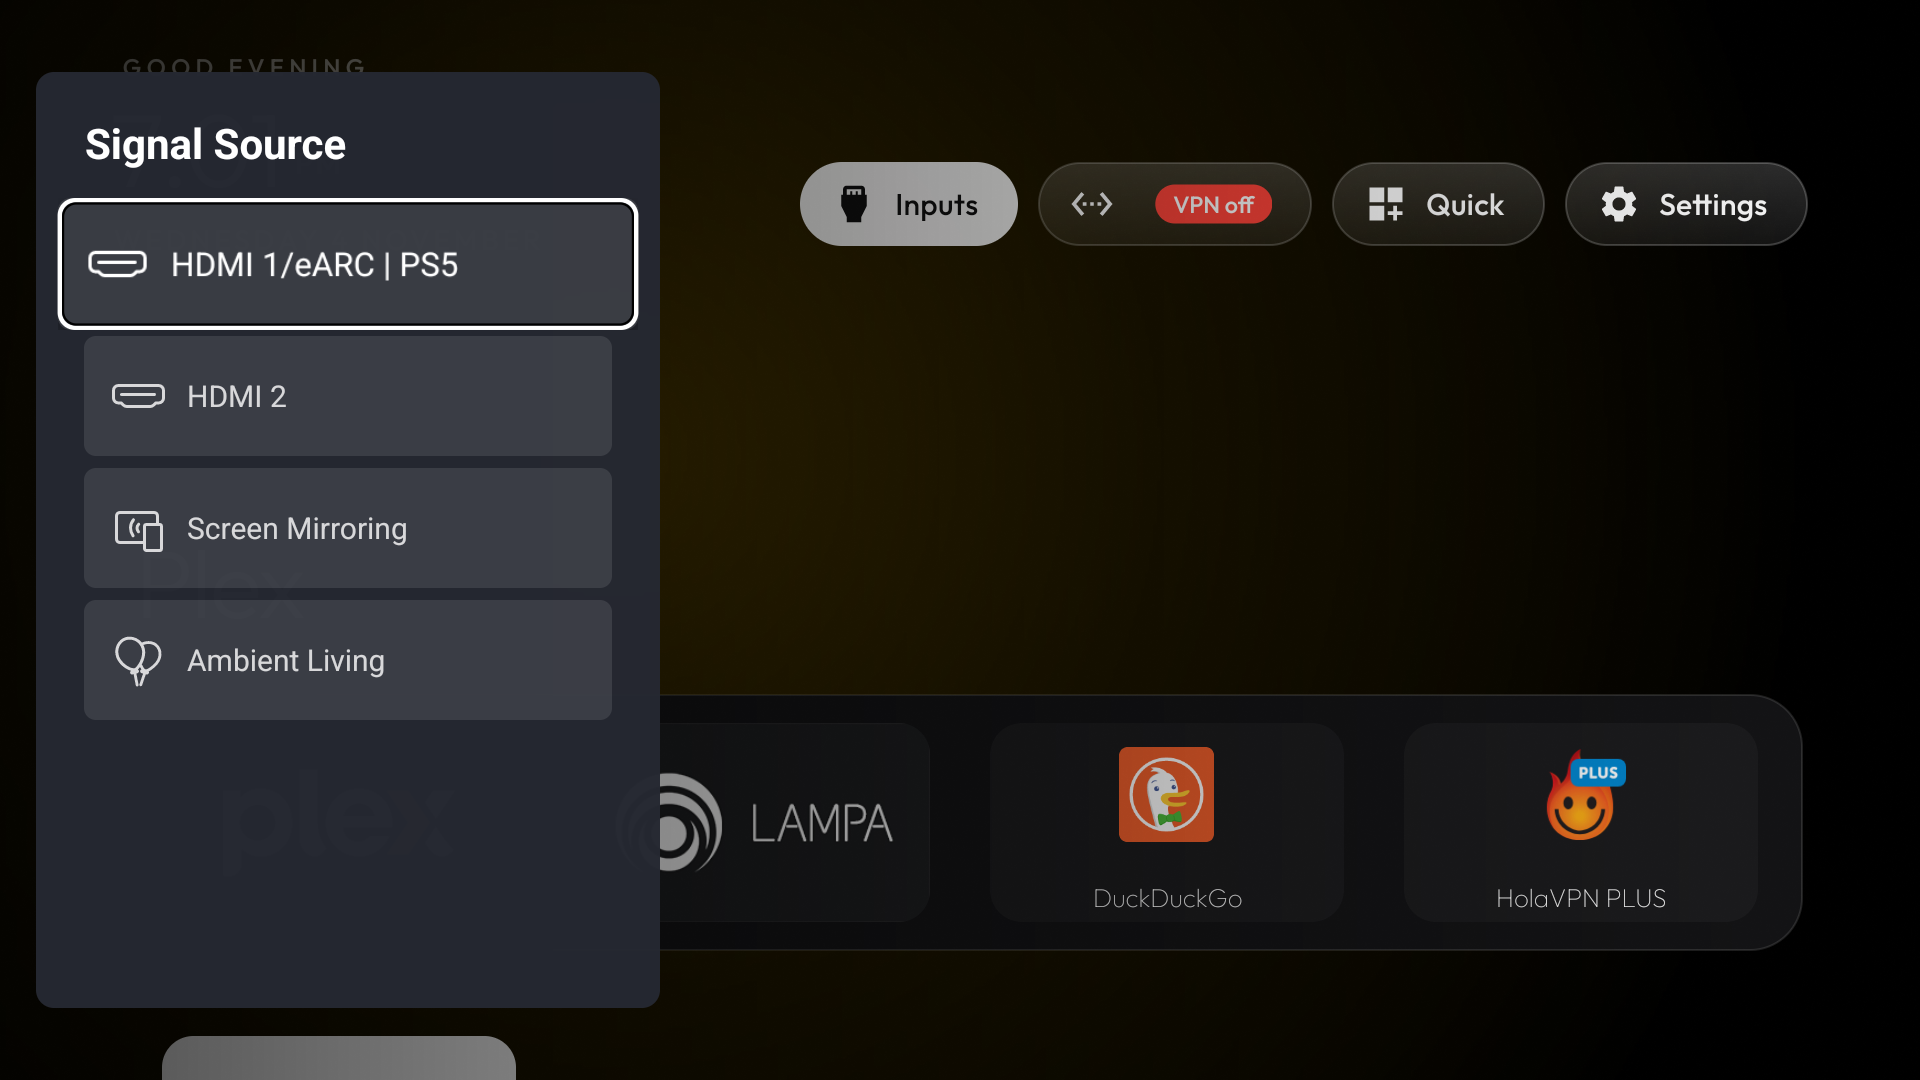
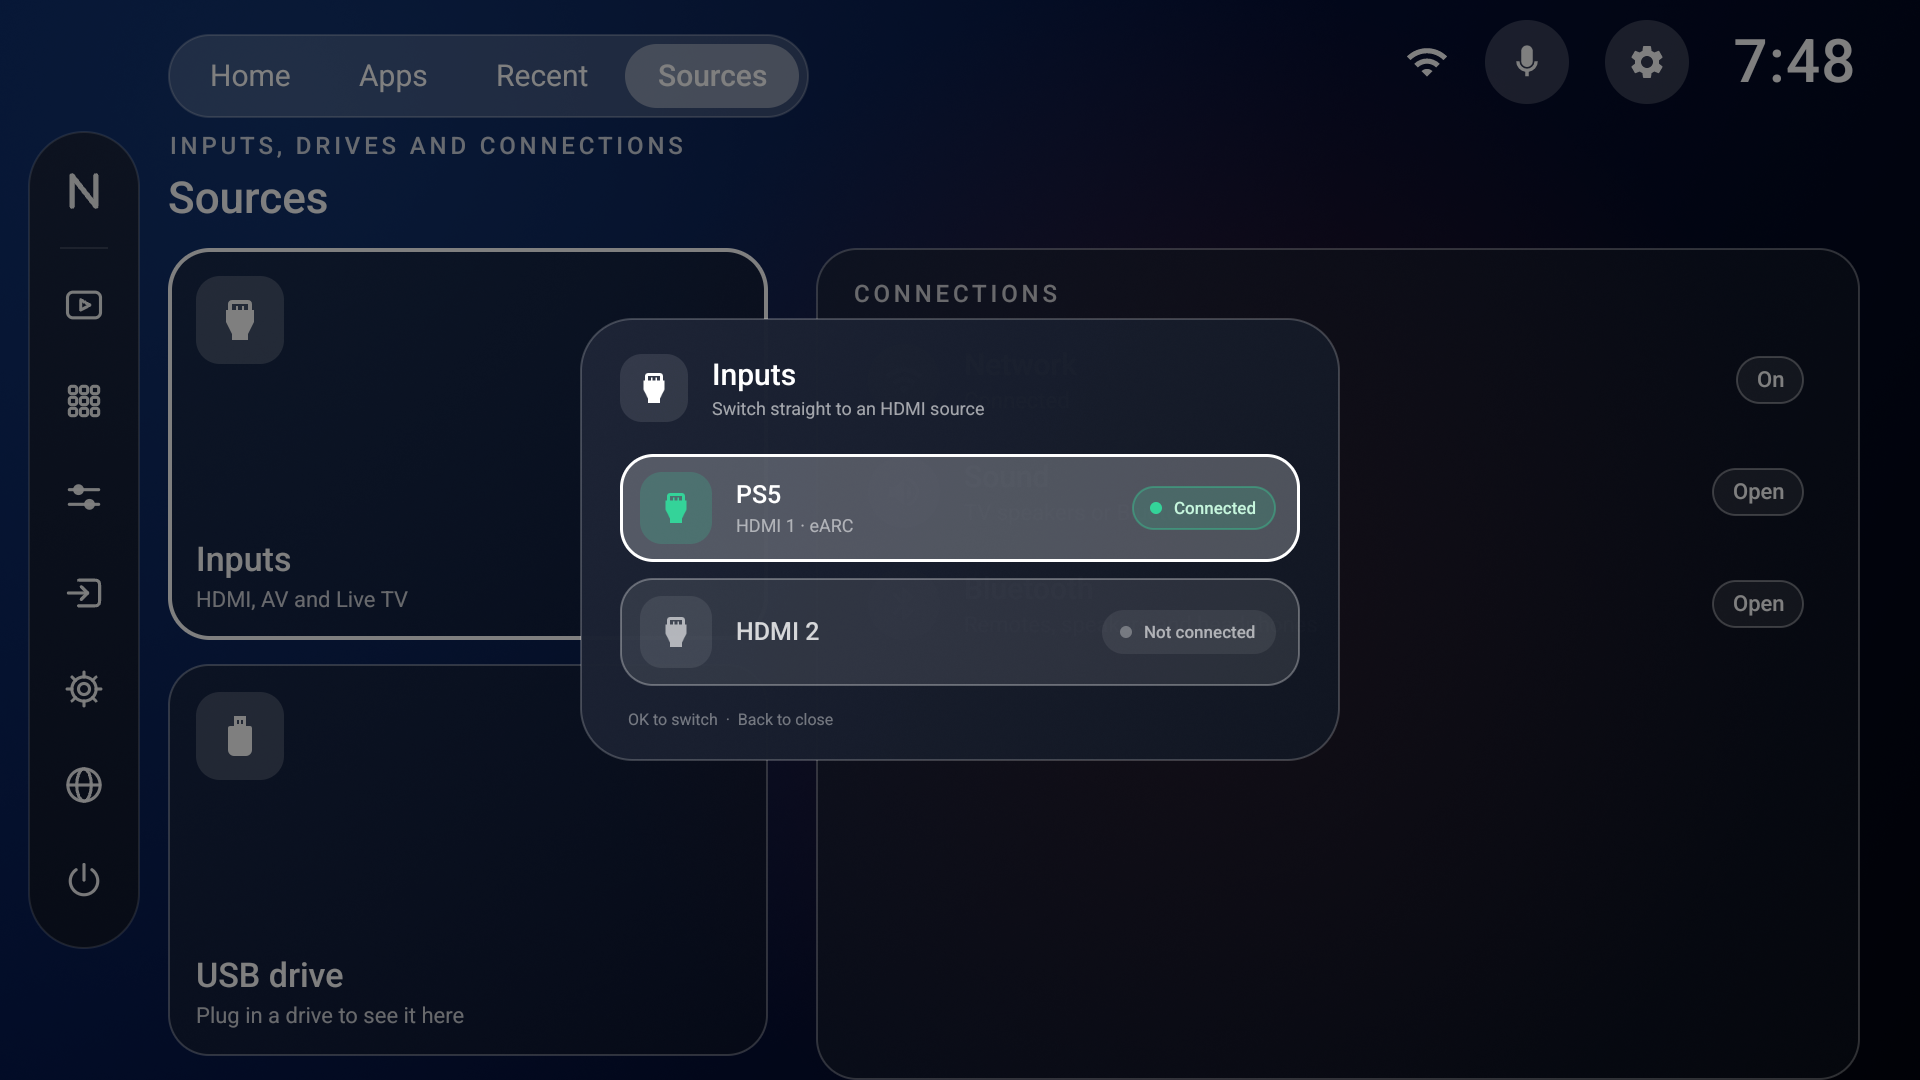
Northlight OS version 2: README and Studio screenshots
Describe version 2 (Studio home, direct HDMI switching with live status,
Short Menu, English Settings, power menu, add-on apps, 31 languages) and
replace the version 1 screenshots with fresh Studio ones. The source in
this repository stays version 1 (tagged v1); version 2 ships as APKs on
the Releases page.

diff --git a/README.md b/README.md
@@ -1,44 +1,75 @@
 # Northlight OS
 
-**A clean, modern English home screen and debloat kit for China-market Vidda / Hisense TVs and laser projectors, rebuilt on top of CleanYourTV.**
+**A clean, modern English home screen for China-market Vidda / Hisense TVs and laser projectors, rebuilt on top of CleanYourTV. Version 2.**
 
 > Northlight OS is a community project and is **not made by, affiliated with or endorsed by
 > Hisense or Vidda**. "Vidda" and "Hisense" are trademarks of their owners and are used here only to
 > say which TVs this is for.
 
-China-market Vidda laser TVs run Android 14 under a Chinese interface, with ads, telemetry and a
-Chinese home screen that English settings do not change. Northlight OS replaces the home screen and turns
-off the bloat, using nothing but Android's own tools: no root, nothing flashed, and **everything is
-undone by one script or a factory reset**.
+China-market Vidda laser TVs run Android 14 under a Chinese interface, with ads and a Chinese home screen
+that English settings do not change. Northlight OS replaces the home screen with its own, in English, using
+nothing but Android's own tools: no root, nothing flashed, and everything can be undone.
 
 ![Northlight OS home screen](screenshots/01-home.png)
 
-| Quick panel | Network and VPN |
+| Apps | Sources |
 |---|---|
-| ![Quick panel](screenshots/04-quick-panel.png) | ![Network menu](screenshots/03-network-menu.png) |
-| **Inputs** | **App grid** |
-| ![Inputs](screenshots/05-inputs.png) | ![Apps](screenshots/02-apps.png) |
-![App library](screenshots/06-app-library.png)
+| ![Apps](screenshots/02-apps.png) | ![Sources](screenshots/03-sources.png) |
+| **Short Menu** | **HDMI inputs** |
+| ![Short Menu](screenshots/04-short-menu.png) | ![HDMI inputs](screenshots/05-inputs.png) |
+| **Quick settings** | **Settings** |
+| ![Quick settings](screenshots/06-quick-settings.png) | ![Settings](screenshots/07-settings.png) |
 
-![System apps folder](screenshots/08-system-apps.png)
+![Power menu](screenshots/08-power.png)
 
-## What you get
+## What's new in version 2
 
-- **A dark, Apple TV-style home screen in English**: a dock of your favourite apps, a clock, and one
-  glass highlight that moves between tiles.
-- **Inputs** opens the TV's own Signal Source panel (HDMI, screen mirroring).
-- **A network pill with a dropdown** for Ethernet/Wi-Fi settings, your VPN (with an On/Off badge) and
-  AirScreen when it is installed.
-- **Quick**: an English version of the Chinese quick panel, with Bluetooth, network, screen mirroring,
-  auto keystone and focus, manual keystone, manual focus, picture mode and sound mode.
-- **App library**: every installed app, phone apps included.
-- **System apps**: tools and Chinese system apps kept off Home behind a **PIN (default 0000)**. It keeps
-  family out; it is not real security, because the PIN is inside the APK.
-- **Boots straight into Northlight OS**, without the stock Chinese "SecondScreen" home.
-- **Debloat**: 20 packages for ads, telemetry, push messages, demo/hotel modes, preloads and the Chinese
-  voice extras ([debloat.txt](debloat.txt)). Firmware updates, HDMI switching, casting and the laser's
-  eye-protection service are kept on purpose.
-- **Optional ad-blocking DNS** (AdGuard Private DNS). It does not block YouTube ads.
+- **Studio**, a new look for Home: a side rail, tabs for Home, Apps, Recent and Sources, a weather card with
+  the week ahead, and big favourites. (The original look, **Classic**, is still there; switch in Settings → Theme.)
+- **HDMI 1 and HDMI 2 straight from Home**, with each port's live status and the name of the device on it
+  (for example "PS5 · HDMI 1 · eARC — Connected"). No Chinese source panel.
+- **Short Menu**: the projector's shortcuts in English — keystone, focus, size and position, picture and sound
+  mode, Bluetooth, network, screen mirroring and more.
+- **Settings in English** for everything Northlight OS does: theme, screen layouts, appearance, wallpaper,
+  screensavers, weather, hidden apps, autostart, VPN, language, software update and about.
+- **Power menu**: screen off (sound keeps playing), sleep timer, restart and power off.
+- **Hide Right-key recommendations**: stops the Chinese "loading…" panel that the Right key opens during HDMI.
+- **Search apps**, a **USB media browser**, a **storage usage** page and a home **weather** widget.
+- **Add-on apps** (optional): Defaults, Keyboard, Voice, VPN, Themes, Calendar and TV Weather — see below.
+
+## Languages
+
+Northlight OS is available in **31 languages**: English, Arabic, Asturian, Bengali, Catalan, Chinese
+(Simplified and Traditional), Czech, Danish, Dutch, Finnish, French, German, Hebrew, Indonesian, Italian,
+Korean, Norwegian, Polish, Portuguese (Brazil and Portugal), Russian, Serbian (Latin), Spanish (Spain and Latin
+America), Swedish, Thai, Turkish, Ukrainian, Uzbek and Vietnamese.
+
+Translations cover the original home-screen texts; Northlight OS's newer screens (Studio, Short Menu, HDMI
+inputs and the new Settings) are in English.
+
+## Add-on apps
+
+Each add-on is its own app; install only the ones you want.
+
+| App | What it does |
+|---|---|
+| **Defaults** | Sets the TV's default apps (home, keyboard, voice input, screensaver) and lets Northlight OS do what a launcher alone may not: turn apps on or off, restart or power off, rename the TV. Uses the TV's own network debugging; the TV asks once to allow it. |
+| **Keyboard** | An English TV keyboard for the remote, with voice typing. |
+| **Voice** | Offline English speech recognition for the TV's voice input. Nothing is sent to the internet. |
+| **VPN** | A VPN page for the whole TV: shows which VPN app is in charge and its state. |
+| **Themes** | Switches Home between Studio and Classic. |
+| **Calendar** | A full-screen calendar with day, month and year views. |
+| **TV Weather** | Current weather and a 5-day outlook for your city. |
+
+| Defaults | Keyboard |
+|---|---|
+| ![Defaults](screenshots/addon-defaults.png) | ![Keyboard](screenshots/addon-keyboard.png) |
+| **Voice** | **VPN** |
+| ![Voice](screenshots/addon-voice.png) | ![VPN](screenshots/addon-vpn.png) |
+| **Themes** | **Calendar** |
+| ![Themes](screenshots/addon-themes.png) | ![Calendar](screenshots/addon-calendar.png) |
+
+![TV Weather](screenshots/addon-weather.png)
 
 ## Tested on
 
@@ -48,7 +79,8 @@ undone by one script or a factory reset**.
 | Board | MediaTek MT9655 (`ro.product.model` `VIDAA_TV`) |
 | Android | 14 (API 34), build `UQ1A.240105.004.A1` / `07.02.70.202512281739` |
 
-The launcher has also been tested on the Hisense Vidda C1, Hisense Vidda C2, Hisense Vidda C3 and Hisense Vidda C5. The firmware details above are from the Hisense Vidda C3 Ultra. Firmware and package lists vary by model, so check `debloat.txt` against your own package list before using it on another model.
+Version 2 was tested on the Hisense Vidda C3 Ultra. Version 1 was also tested on the Hisense Vidda C1, C2, C3
+and C5. Firmware varies by model, so other sets may behave differently.
 
 ## Install
 
@@ -56,23 +88,23 @@ You need a Mac or Linux computer with Python 3 on the same network as the TV.
 
 1. **On the TV:** Settings > Device Preferences > About > press OK on **Build** 7 times. Back >
    **Developer options** > **USB debugging** on. Note the TV's IP address (Settings > Network).
-2. If an earlier test build is installed, remove it under Android **Settings > Apps** before installing.
-   Version 1.0.1 uses a new application ID, so Android treats it as a separate app.
-3. **Download** `Northlight-OS-1.0.1.apk` from the [Releases](../../releases) page into this folder.
+2. **If you have version 1** (it was called "VIDDA One" or used the app ID `com.viddaone.launcher`), remove it
+   under Android **Settings > Apps** first. Version 2 is a separate app.
+3. **Download** `Northlight-OS-2.1.27.apk` from the [Releases](../../releases) page into this folder.
 4. **Run:**
    ```bash
    ./northlight-os-setup.sh <tv ip>
    ```
-   It installs Northlight OS, makes it Home, disables the packages in `debloat.txt` one at a time, and turns on
-   AdGuard DNS (`NO_DNS=1 ./northlight-os-setup.sh <tv ip>` skips the DNS).
-4. **Switch USB debugging off again.** On this firmware (`ro.adb.secure=0`) anyone on your network can
-   control the TV while it is on.
+   It installs Northlight OS and makes it Home.
+5. **Add-ons (optional):** download the ones you want from the same release and install each with
+   `adb install <file>.apk`, or open it from a USB stick with a file manager on the TV.
+6. **Switch USB debugging off again** if you don't use the Defaults add-on. On this firmware anyone on your
+   network can control the TV while it is on.
 
 Why a script and not just the APK: Hisense's stock home outranks any installed launcher, and only ADB can
 switch it off. Installing the APK from a USB stick installs the app but does not make it Home.
 
-On macOS, if the script cannot reach the TV ("No route to host"), allow your terminal under
-System Settings > Privacy & Security > Local Network.
+Check the download with `shasum -a 256 -c SHA256SUMS.txt` (the file is in the release).
 
 ## Undo
 
@@ -80,21 +112,8 @@ System Settings > Privacy & Security > Local Network.
 ./northlight-os-undo.sh <tv ip>
 ```
 
-Re-enables every package, brings back the stock home, resets DNS and removes Northlight OS. A **factory reset**
-also undoes everything (and erases your apps).
-
-## Customise
-
-All settings live in [`launcher/app/src/main/res/values/config.xml`](launcher/app/src/main/res/values/config.xml);
-rebuild with `./build.sh` and reinstall with `./northlight-os-setup.sh`.
-
-| Change | Key |
-|---|---|
-| Dock apps and order | `dock_apps`, `columns` |
-| System apps PIN | `system_apps_pin` (empty = no PIN) |
-| What is in System apps | `system_apps` (also list them in `hidden_apps`) |
-| VPN app for the network pill | `vpn_app` |
-| Separate VPN pill instead of the badge | `vpn_pill` |
+Brings back the stock home and removes Northlight OS. A **factory reset** also undoes everything (and erases
+your apps).
 
 ## App compatibility
 
@@ -103,15 +122,21 @@ rebuild with `./build.sh` and reinstall with `./northlight-os-setup.sh`.
 - **Some apps that sign in with Google may not work**, because this firmware does not include Google Play
   Services.
 - **The remote's quick-panel button** still opens the Chinese panel: the firmware never runs the launcher's
-  remote-key helper. Use the **Quick** pill on Home.
-- **"Turn off light source"** is not in the Quick panel: the firmware exposes no command for it.
+  remote-key helper. Use **Short Menu** on Home.
 - **The two Hisense fallback homes** are re-enabled by the firmware at every boot, so Northlight OS leaves them on.
+- **Screenshots of HDMI devices** come out black: the TV shows HDMI on a separate video layer.
+
+## Source code
+
+The source in this repository is **version 1**. Version 2 is available as ready-to-install APKs on the
+[Releases](../../releases) page.
 
 ## Credits
 
 Northlight OS is rebuilt on top of [CleanYourTV](https://github.com/Gathin23/cleanyourtv) by Gathin (MIT),
-using its launcher, ADB tools and Hisense MT9655 notes as the foundation. Northlight OS's changes are listed
-in [CHANGES.md](CHANGES.md).
+using its launcher, ADB tools and Hisense MT9655 notes as the foundation. The Voice add-on uses the Kroko
+English streaming Zipformer speech model (Banafo, CC-BY-SA 4.0) and [sherpa-onnx](https://github.com/k2-fsa/sherpa-onnx)
+(Apache-2.0) with ONNX Runtime (MIT). TV Weather's forecasts come from [Open-Meteo](https://open-meteo.com).
 
 ## Licence
 
